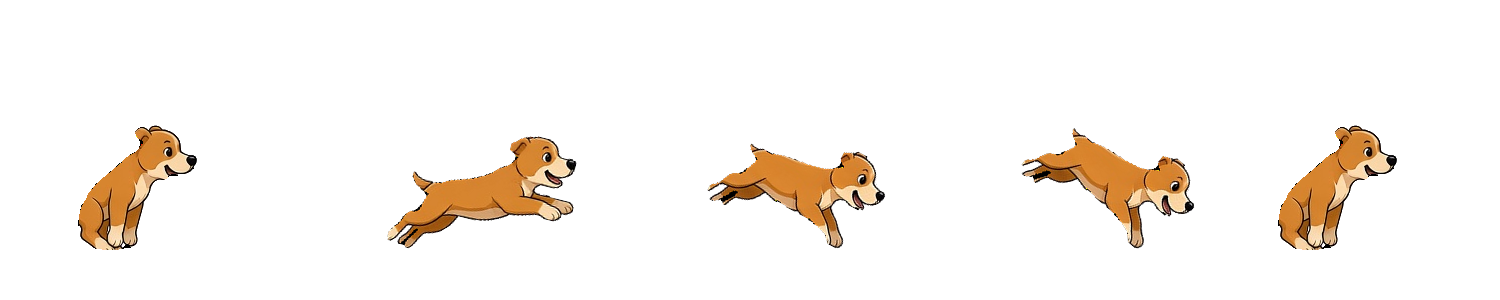
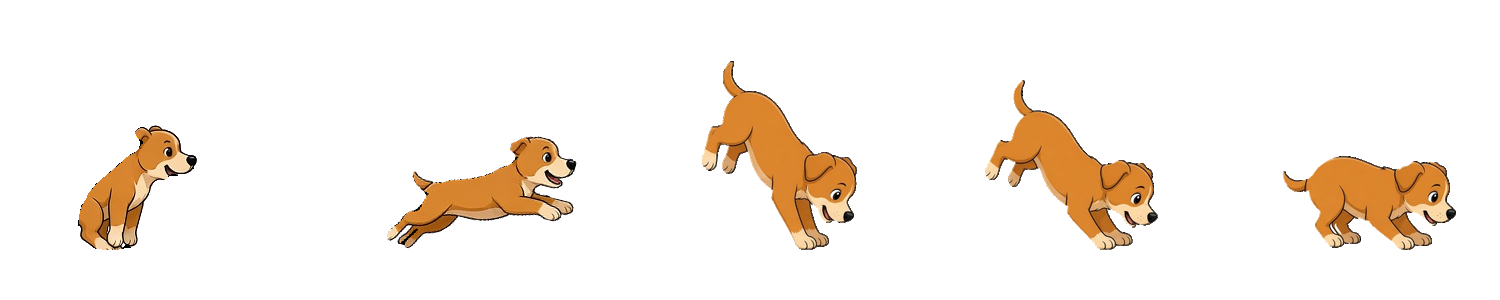
Site dog: owner's landing art (front paws first) replaces tilted stand-ins; background + white border removed

Changed region(s): [[0.46, 0.21, 0.6133, 0.84], [0.644, 0.27, 0.7973, 0.84], [0.828, 0.42, 0.9813, 0.84]]

diff --git a/design/dog_art.py b/design/dog_art.py
@@ -15,6 +15,7 @@ from pathlib import Path
 from PIL import Image, ImageFilter
 
 BRAND = Path(__file__).resolve().parent / "brand"
+FRONT_OFFSET = 100  # landing art: front paws sit this far in front of where hind feet usually go
 CELL = 300          # px per square cell (native frames are ~150-185 px wide)
 ANCHOR = (110, 250)  # where the hind feet land inside each cell (x, y)
 
@@ -65,6 +66,12 @@ def clean(im: Image.Image, max_depth: int = 14) -> Image.Image:
     return im.crop(im.getchannel("A").getbbox())
 
 
+def front_foot_x(im: Image.Image) -> float:
+    a = im.getchannel("A"); w, h = im.size
+    xs = [x for y in range(max(0, h - 8), h) for x in range(int(w * .5), w) if a.getpixel((x, y))]
+    return sum(xs) / len(xs) if xs else w * .75
+
+
 def hind_foot_x(im: Image.Image) -> float:
     """Mean x of opaque pixels in the bottom 8 rows of the back 45% of the frame."""
     a = im.getchannel("A")
@@ -82,7 +89,7 @@ def build(src: Path, name: str = "jump", pick=None):
     cells = []
     for f in files:
         im = clean(Image.open(f))
-        fx = hind_foot_x(im)
+        fx = hind_foot_x(im) if name != "landart" else front_foot_x(im) - FRONT_OFFSET
         cell = Image.new("RGBA", (CELL, CELL))
         cell.paste(im, (round(ANCHOR[0] - fx), ANCHOR[1] - im.height), im)
         cells.append(cell)
@@ -111,15 +118,16 @@ def tilt(cell: Image.Image, deg: float) -> Image.Image:
 
 
 # Jump-down landing, drawn from existing art: (strip, cell in that strip, tilt degrees)
+# Jump-down landing: (strip, cell in that strip, tilt degrees). "landart" = owner's 3 landing frames.
 LAND = [("jump", 11, 0),     # 1 peek over the edge
         ("jump", 3, -14),    # 2 hop off
-        ("run", 5, -28),     # 3 falling nose-down, front legs reaching (engine keeps it in the air)
-        ("run", 5, -40),     # 4 FRONT PAWS TOUCH DOWN, back end still up
-        ("jump", 11, 0)]     # 5 back end drops, all four down in a soft crouch
+        ("landart", 0, 0),   # 3 falling nose-down, front legs reaching (engine keeps it in the air)
+        ("landart", 1, 0),   # 4 FRONT PAWS TOUCH DOWN, back end still up
+        ("landart", 2, 0)]   # 5 back end drops, crouch
 
 
 def build_land():
-    strips = {n: Image.open(BRAND / f"dog-{n}.png") for n in ("jump", "run")}
+    strips = {n: Image.open(BRAND / f"dog-{n}.png") for n in ("jump", "run", "landart")}
     sheet = Image.new("RGBA", (CELL * len(LAND), CELL))
     for i, (n, c, deg) in enumerate(LAND):
         cell = strips[n].crop((c * CELL, 0, c * CELL + CELL, CELL))

diff --git a/AGENTS.md b/AGENTS.md
@@ -38,7 +38,7 @@ tagline "Every heartbeat deserves a home."). Nothing is published yet.
    below now LIFTS a dog standing on the floor. Wanders, rides cards, hops off at the top bar.
    RUN art in (2nd zip, `design/brand/dog-src-run/`): packed with `--name run --frames 3,6,1,4,7,8`, then
    `python design/dog_art.py --combine jump run` -> `dog-all.png` (cells 0-11 jump, 12-17 run; build
-   copies it to `dog.png`). Run/skip play run frames over a bounding hop (`STRIDE`). Weakness: the run
+   copies it to `dog.png`). Landing art (owner, 3 frames on one white JPG) in `dog-src-land/`: background + white border flooded out, cut into 3, scaled 0.6, packed as `landart` (anchored on FRONT paws), used as land cells 3-5. Run/skip play run frames over a bounding hop (`STRIDE`). Weakness: the run
    frames are all stretched-leap poses (no gathered-legs frame), so it reads as bounding, not galloping.
    Trot/nap/sit still use jump frames as stand-ins (owner is doing animations one at a time). Old stick-dog sheet: `design/sprite_template.py` (template only).
 3. Small polish: "More…" share button alone on its row; check nav edge on wide screens.
